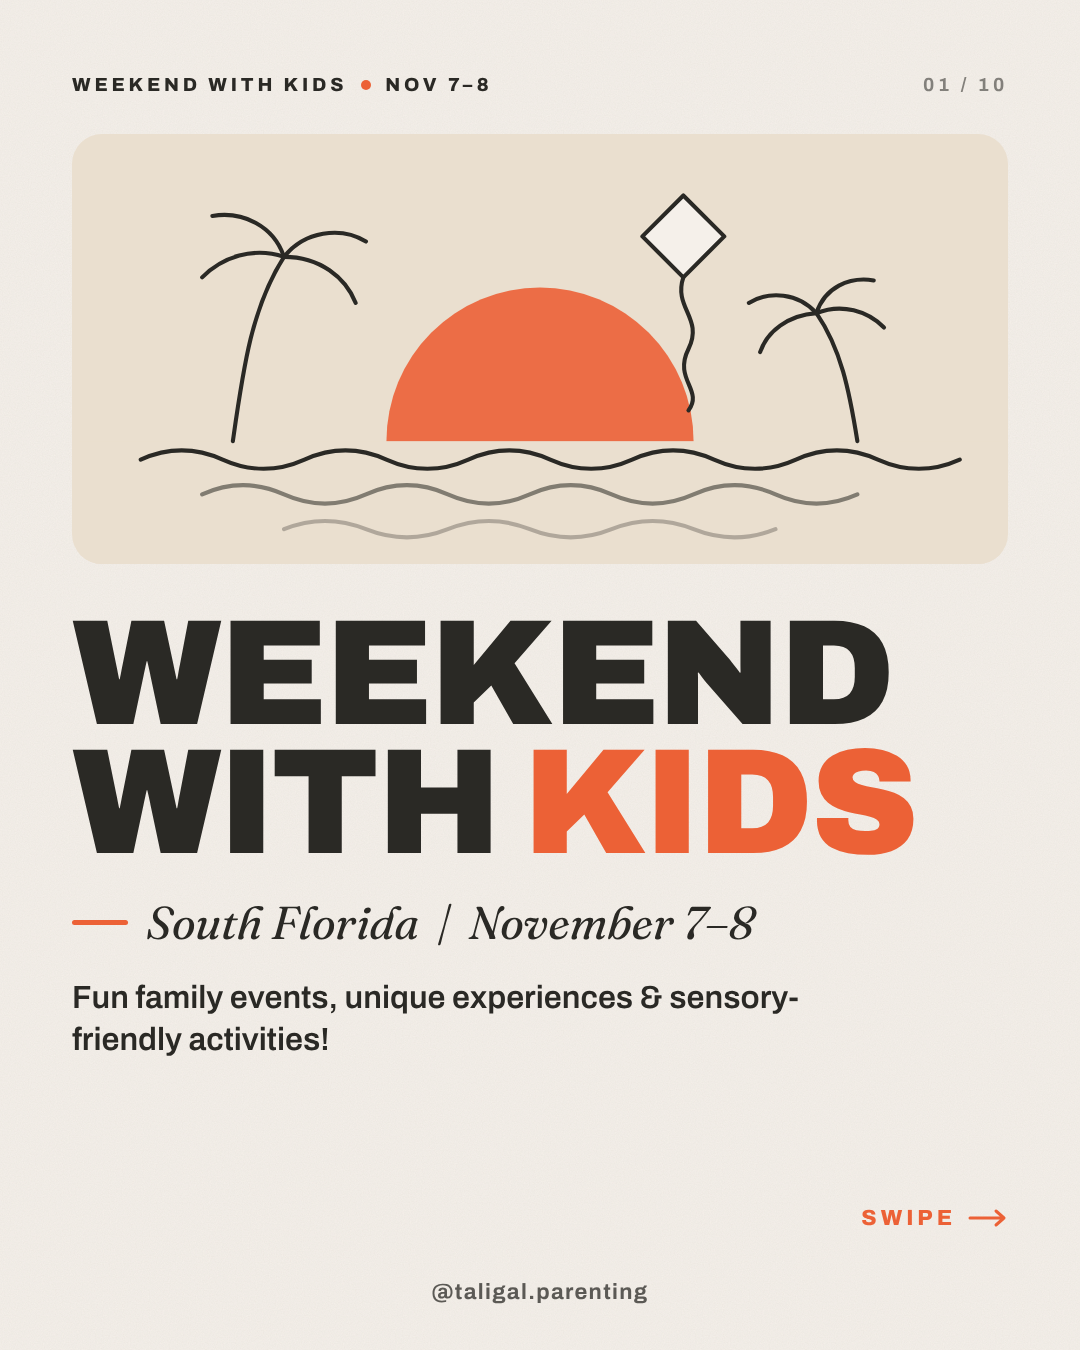
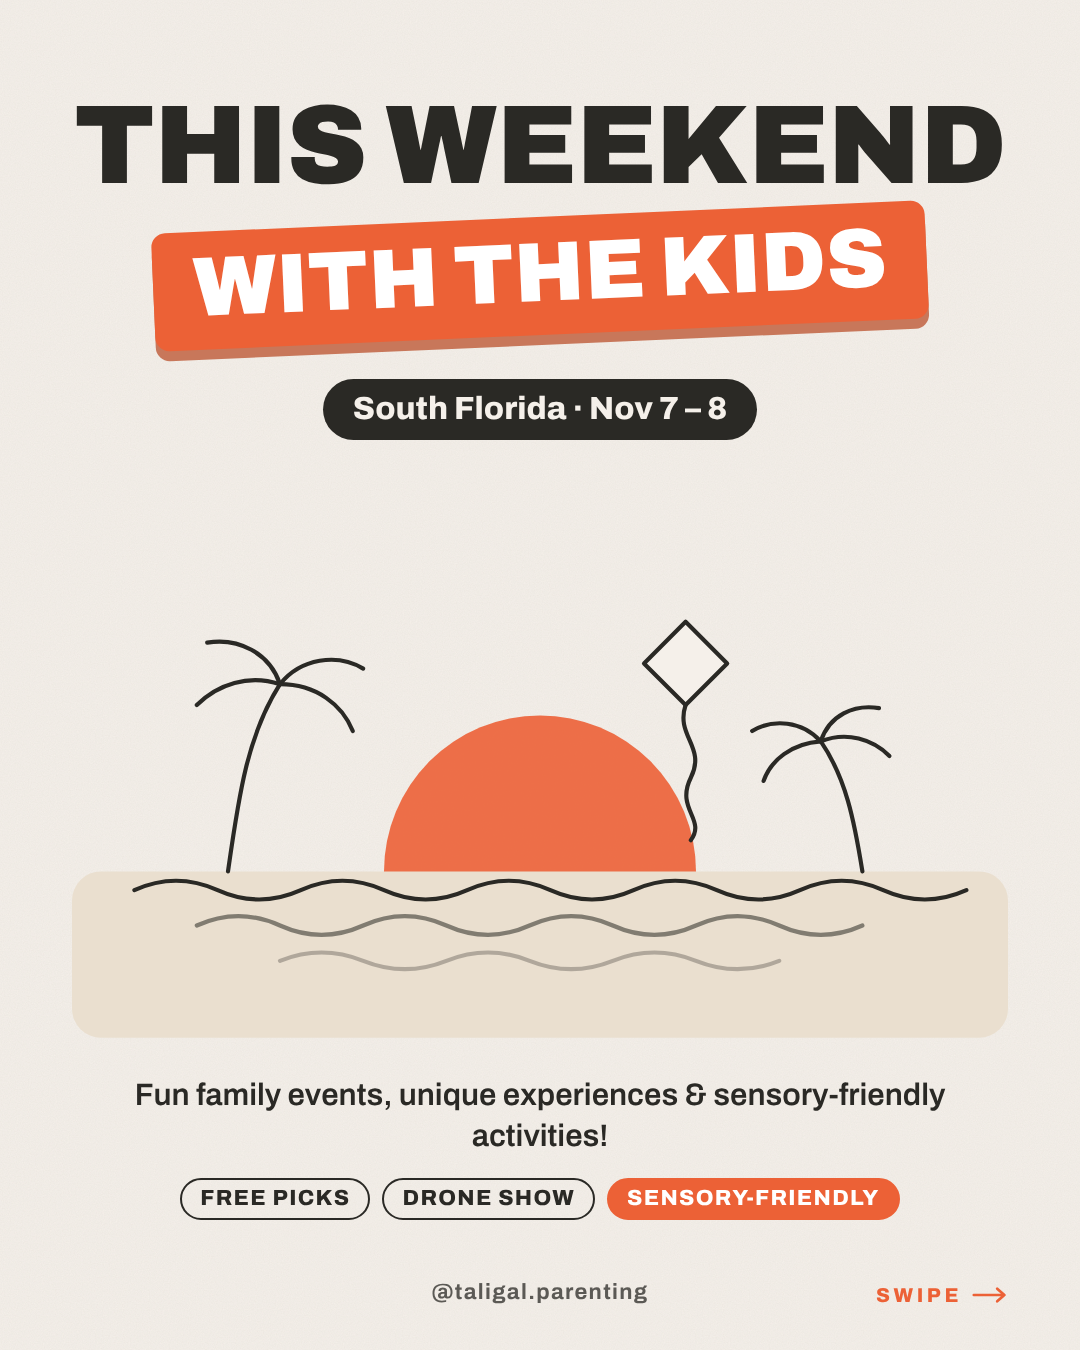
Match cover to the This Weekend With the Kids series look
Claude-Session: https://claude.ai/code/session_011fc4pus6EVm2ZhLZw5HXGj

diff --git a/carousels/2026-11-07-weekend-with-kids/build.js b/carousels/2026-11-07-weekend-with-kids/build.js
@@ -60,7 +60,7 @@ function stars() {
 const art = {
   cover: `<svg viewBox="0 0 900 420" width="100%" height="100%" preserveAspectRatio="xMidYMid meet">
     <circle cx="450" cy="300" r="150" fill="${C.orange}" opacity=".9"/>
-    <rect x="0" y="300" width="900" height="120" fill="${C.sand}"/>
+    <rect x="0" y="300" width="900" height="160" rx="28" fill="${C.sand}"/>
     <path d="M60 318 q40 -18 80 0 t80 0 t80 0 t80 0 t80 0 t80 0 t80 0 t80 0 t80 0 t80 0" ${S}/>
     <path d="M120 352 q40 -18 80 0 t80 0 t80 0 t80 0 t80 0 t80 0 t80 0 t80 0" ${S} opacity=".55"/>
     <path d="M200 386 q40 -16 80 0 t80 0 t80 0 t80 0 t80 0 t80 0" ${S} opacity=".3"/>
@@ -226,7 +226,7 @@ h1 .o{color:${C.orange}}
 function shell(n, inner, extraClass = '') {
   return `<!doctype html><html><head><meta charset="utf-8"><style>${css}</style></head><body>
   <div class="slide ${extraClass}">
-    <div class="top"><span>Weekend with kids<span class="dot"></span>Nov 7–8</span><span class="num">${String(n).padStart(2,'0')} / ${TOTAL}</span></div>
+    <div class="top"><span>This weekend with the kids<span class="dot"></span>Nov 7–8</span><span class="num">${String(n).padStart(2,'0')} / ${TOTAL}</span></div>
     ${inner}
     <div class="handle">@taligal.parenting</div>
   </div></body></html>`;
@@ -254,24 +254,30 @@ function event(n, o) {
 // ---------- slides ----------
 const slides = [];
 
-// 1 — Cover
-slides.push(shell(1, `
-  <style>
-    .cover-art{margin-top:30px;height:430px;border-radius:30px;background:${C.sand};overflow:hidden;display:flex;align-items:flex-end;justify-content:center}
-    .cover-art svg{width:100%;height:100%}
-    .ct{margin-top:46px;font-weight:900;font-size:150px;line-height:.86;letter-spacing:-.02em;text-transform:uppercase}
-    .ct .o{color:${C.orange}}
-    .cs{margin-top:26px;font-size:46px;display:flex;align-items:center;gap:18px}
-    .cs .bar{width:56px;height:5px;background:${C.orange};border-radius:3px}
-    .cd{margin-top:26px;font-size:32px;line-height:1.3;font-weight:600;max-width:820px}
-    .swipe{position:absolute;right:72px;bottom:120px;display:flex;align-items:center;gap:12px;font-weight:800;font-size:22px;letter-spacing:.18em;text-transform:uppercase;color:${C.orange}}
-  </style>
-  <div class="cover-art">${art.cover}</div>
-  <div class="ct">Weekend<br>with <span class="o">kids</span></div>
-  <div class="cs"><span class="bar"></span><span class="serif">South Florida&nbsp; | &nbsp;November 7–8</span></div>
+// 1 — Cover (matches the "This Weekend With the Kids" series cover)
+slides.push(`<!doctype html><html><head><meta charset="utf-8"><style>${css}
+  .cv{align-items:center;text-align:center;padding:96px 72px 0}
+  .t1{font-weight:900;font-size:112px;line-height:.9;letter-spacing:-.01em;text-transform:uppercase;white-space:nowrap}
+  .rib{margin-top:20px;background:${C.orange};color:#fff;font-weight:900;font-size:84px;line-height:1;text-transform:uppercase;padding:14px 40px 20px;border-radius:14px;transform:rotate(-2.5deg);box-shadow:0 10px 0 ${C.terracotta}}
+  .pill{margin-top:44px;background:${C.charcoal};color:${C.cream};font-weight:800;font-size:32px;padding:12px 30px 14px;border-radius:999px}
+  .cvart{margin-top:40px;width:100%;flex:1 1 auto;min-height:200px;display:flex;align-items:center;justify-content:center}
+  .cvart svg{width:auto;height:100%;max-width:100%;aspect-ratio:900/420;overflow:hidden}
+  .cd{font-size:31px;line-height:1.3;font-weight:600;max-width:820px;margin-bottom:22px}
+  .tags{display:flex;gap:12px;justify-content:center;margin-bottom:130px;flex-wrap:wrap}
+  .tags span{border:2.5px solid ${C.charcoal};border-radius:999px;padding:6px 18px 8px;font-size:22px;font-weight:800;text-transform:uppercase;letter-spacing:.06em}
+  .tags span.o{background:${C.orange};border-color:${C.orange};color:#fff}
+  .swipe{position:absolute;right:72px;bottom:44px;display:flex;align-items:center;gap:10px;font-weight:800;font-size:20px;letter-spacing:.18em;text-transform:uppercase;color:${C.orange}}
+</style></head><body>
+<div class="slide cv">
+  <div class="t1">This weekend</div>
+  <div class="rib">With the kids</div>
+  <div class="pill">South Florida · Nov 7 – 8</div>
+  <div class="cvart">${art.cover}</div>
   <div class="cd">Fun family events, unique experiences &amp; sensory-friendly activities!</div>
-  <div class="swipe">Swipe <svg width="40" height="20" viewBox="0 0 40 20" fill="none" stroke="currentColor" stroke-width="3" stroke-linecap="round" stroke-linejoin="round"><path d="M2 10h34M28 3l8 7-8 7"/></svg></div>
-`));
+  <div class="tags"><span>Free picks</span><span>Drone show</span><span class="o">Sensory-friendly</span></div>
+  <div class="handle">@taligal.parenting</div>
+  <div class="swipe">Swipe <svg width="36" height="18" viewBox="0 0 40 20" fill="none" stroke="currentColor" stroke-width="3" stroke-linecap="round" stroke-linejoin="round"><path d="M2 10h34M28 3l8 7-8 7"/></svg></div>
+</div></body></html>`);
 
 // 2 — Drone show
 slides.push(event(2, {

diff --git a/carousels/2026-11-07-weekend-with-kids/README.md b/carousels/2026-11-07-weekend-with-kids/README.md
@@ -1,4 +1,4 @@
-# Weekend With Kids | South Florida: November 7–8, 2026
+# This Weekend With the Kids | South Florida: November 7–8, 2026
 
 Instagram carousel for @taligal.parenting. It has 10 slides, each 1080 × 1350 (4:5), in `slides/01.png` to `slides/10.png`.
 
